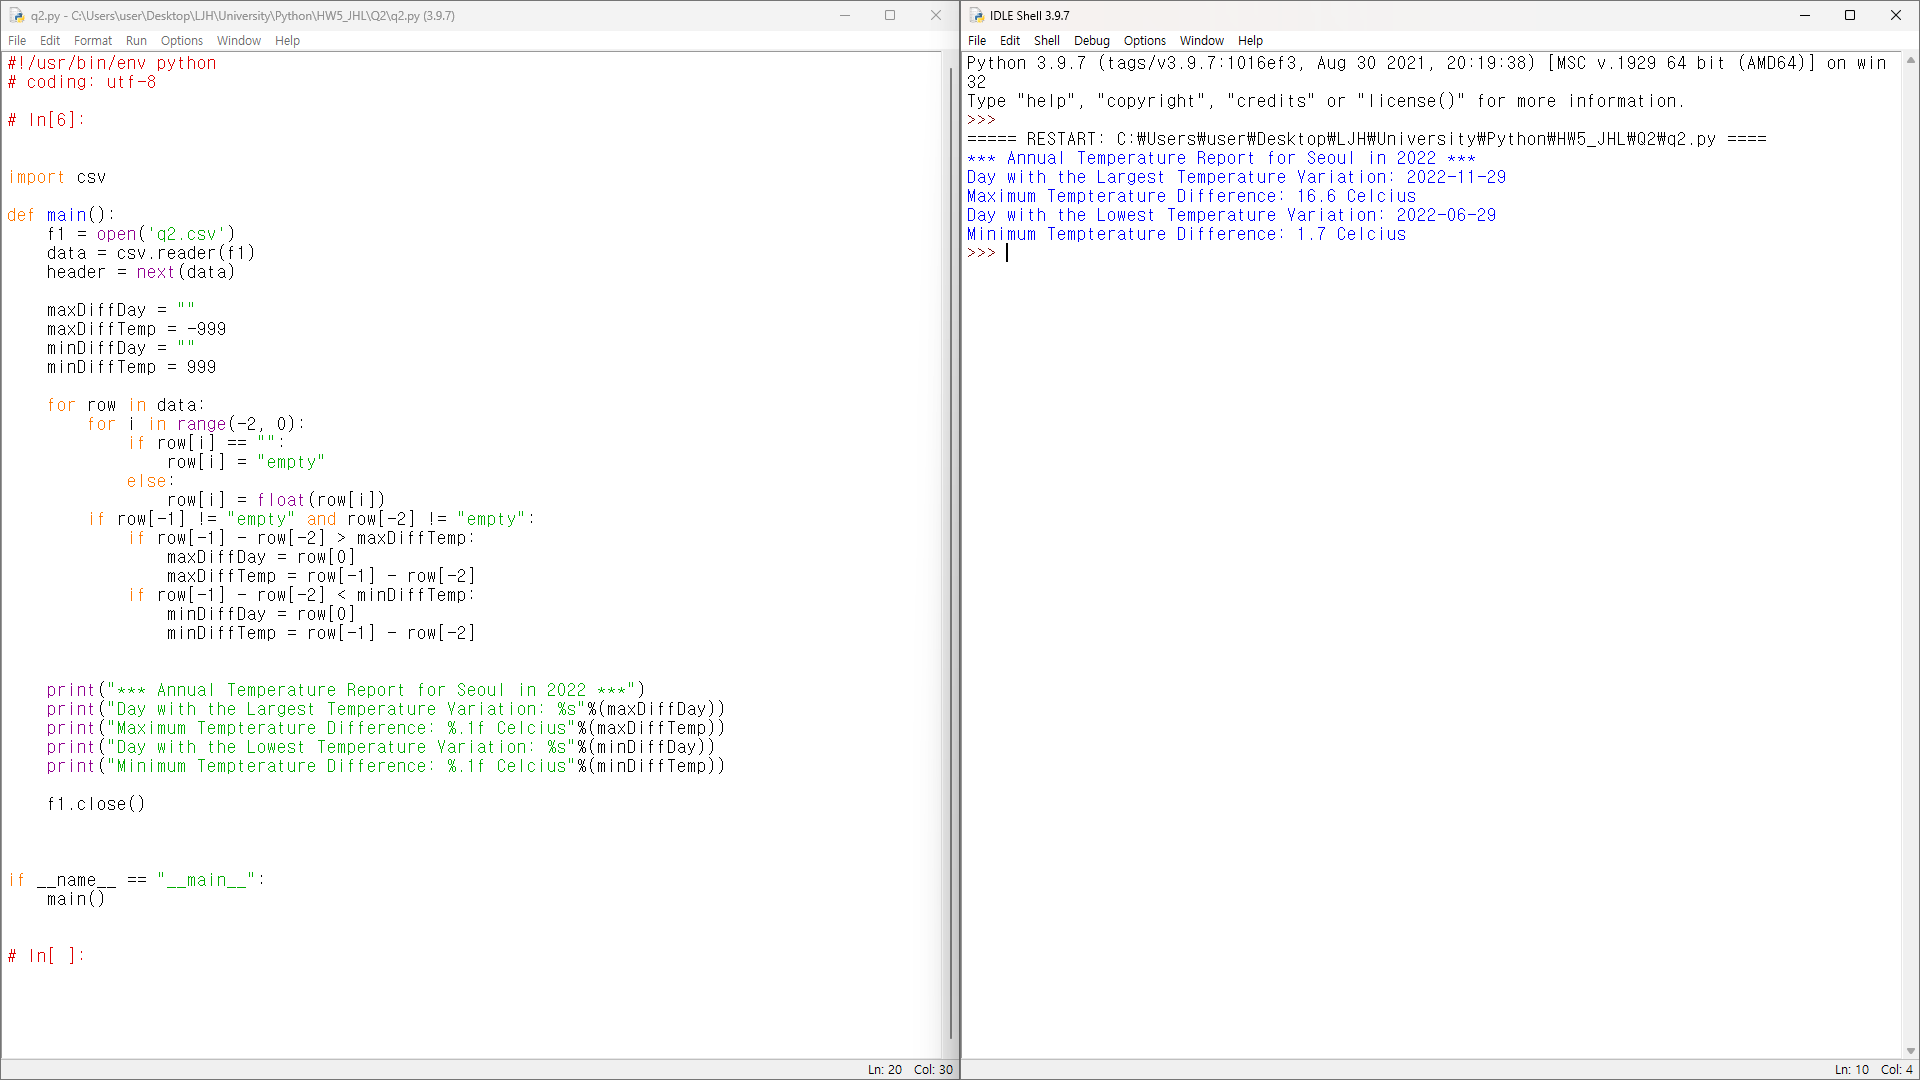
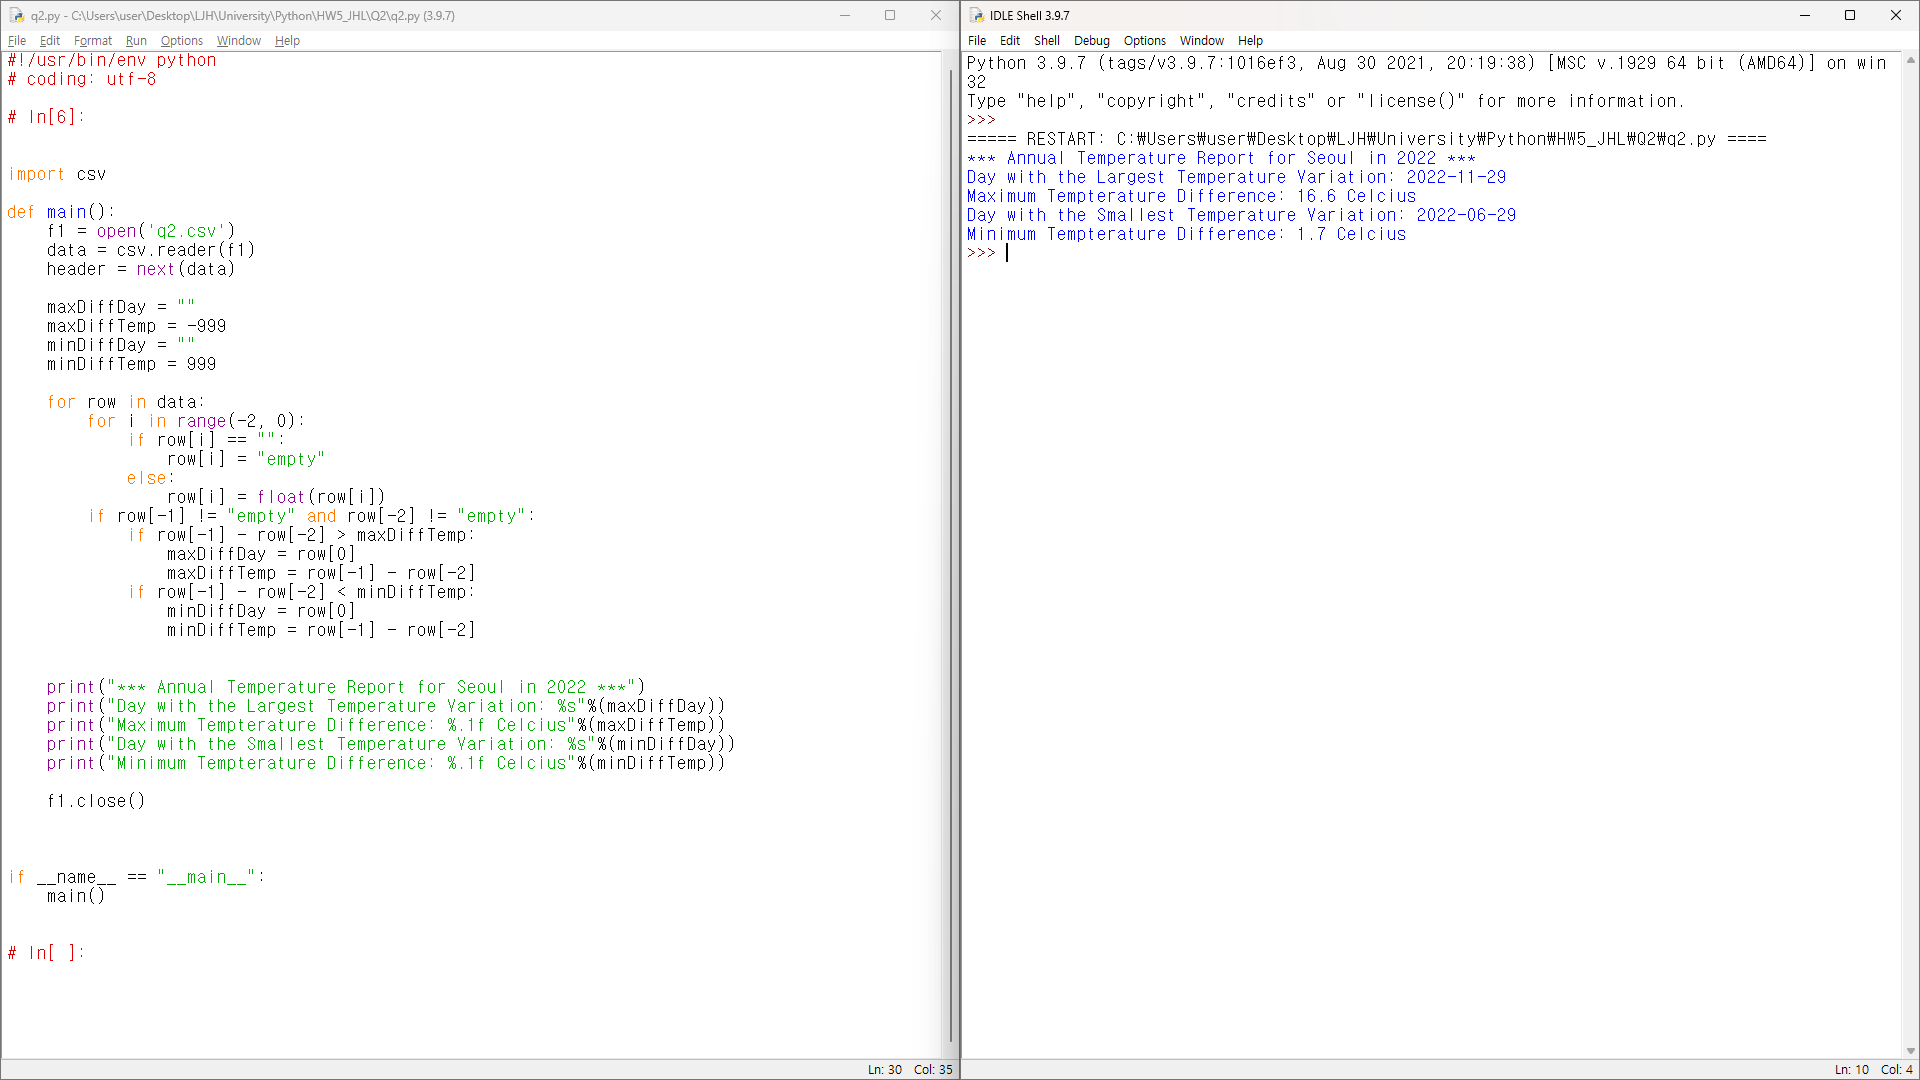
Q2: Lowest -> Smallest

diff --git a/Q2/q2.py b/Q2/q2.py
@@ -34,7 +34,7 @@ def main():
     print("*** Annual Temperature Report for Seoul in 2022 ***")
     print("Day with the Largest Temperature Variation: %s"%(maxDiffDay))
     print("Maximum Tempterature Difference: %.1f Celcius"%(maxDiffTemp))
-    print("Day with the Lowest Temperature Variation: %s"%(minDiffDay))
+    print("Day with the Smallest Temperature Variation: %s"%(minDiffDay))
     print("Minimum Tempterature Difference: %.1f Celcius"%(minDiffTemp))
 
     f1.close()
